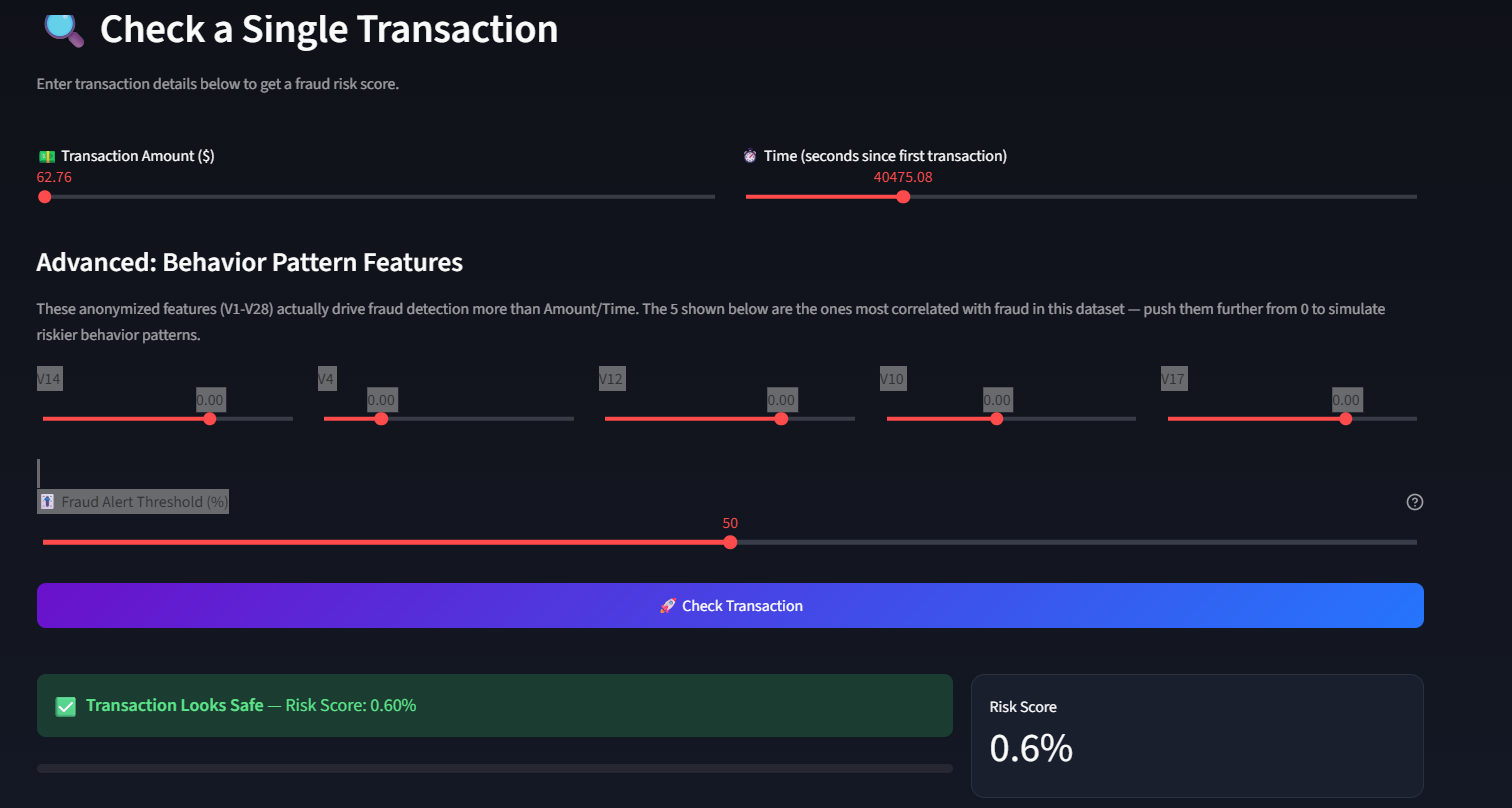
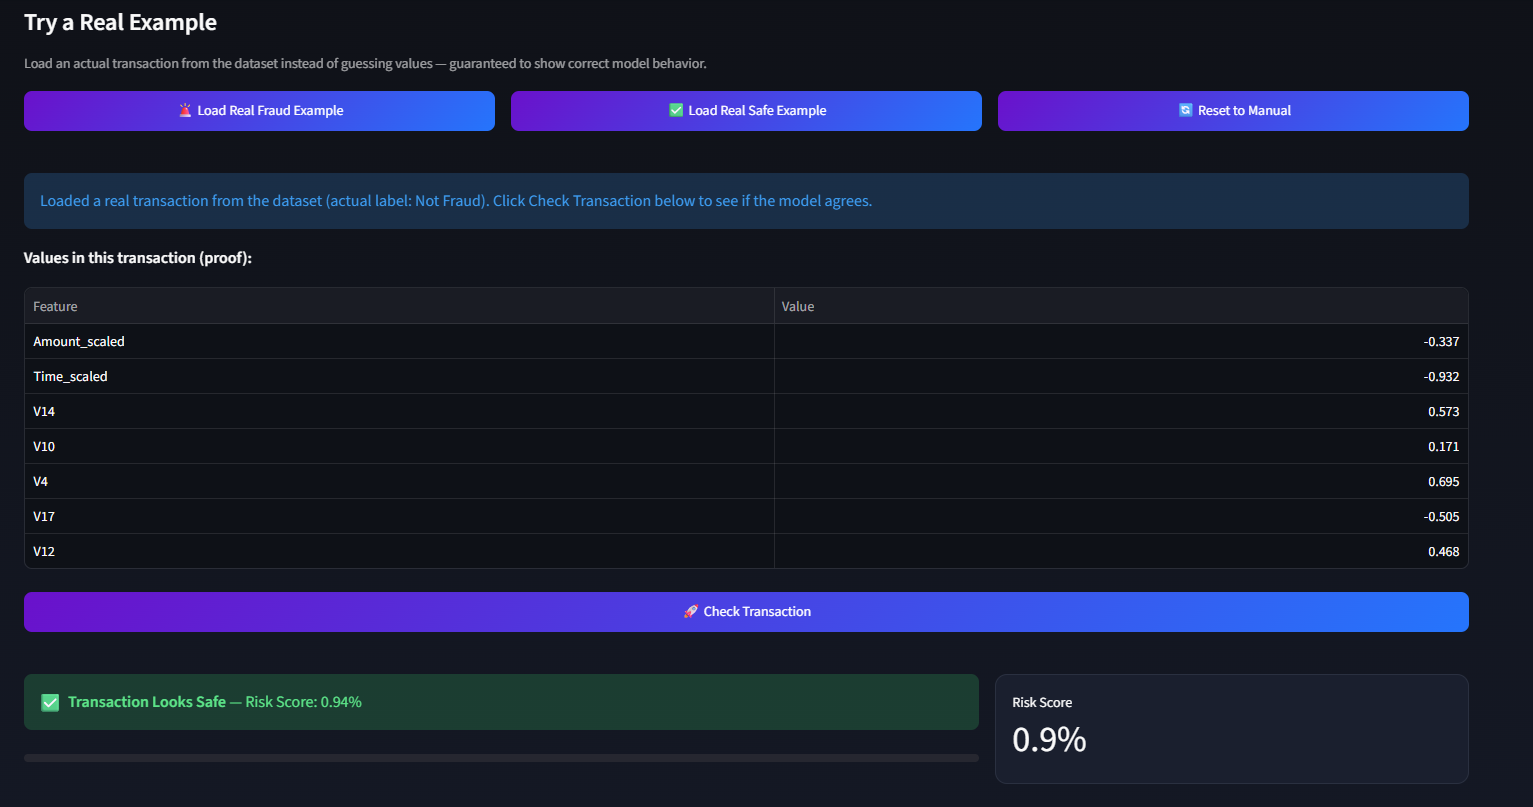
updated

diff --git a/app.py b/app.py
@@ -135,7 +135,6 @@ elif page=="🔍 Single Prediction":
     st.markdown("<br>",unsafe_allow_html=True)
  
     st.markdown("#### Try a Real Example")
-    st.caption("Load an actual transaction from the dataset instead of guessing values — guaranteed to show correct model behavior.")
     b1,b2,b3=st.columns(3)
     with b1:
         if st.button('🚨 Load Real Fraud Example',use_container_width=True):
@@ -300,31 +299,58 @@ elif page=="📊 Model Performance":
  
 elif page=="👤 About Me":
     st.markdown("## 👤 About Me")
-    st.markdown("<br>",unsafe_allow_html=True)
- 
-    col1,col2=st.columns([1,3])
+    st.markdown("<br>", unsafe_allow_html=True)
+    st.markdown("""
+    <style>
+        .profile-pic-container img {
+            border-radius: 50% !important;
+            object-fit: cover !important;
+            aspect-ratio: 1 / 1 !important;
+            border: 3px solid #2575fc;
+            width: 160px !important;
+            height: 160px !important;
+        }
+        
+        div[data-testid="column"] {
+            padding: 0px !important;
+        }
+        .profile-card {
+            background-color: #1a1f2e;
+            border: 1px solid #2a3040;
+            border-radius: 12px;
+            padding: 1.5rem;
+            margin-left: -20px; /* Pulls the card directly closer to the picture */
+        }
+    </style>
+    """, unsafe_allow_html=True)
+    col1, col2 = st.columns([1, 5])
     with col1:
+        st.markdown('<div class="profile-pic-container">', unsafe_allow_html=True)
         try:
-            st.image("images/profile.jpg",width=200)
+            st.image("images/profile.jpg")
         except Exception:
-            st.warning("Add a photo named 'profile.jpg' to your project folder to show it here.")
+            st.warning("Add profile.jpg")
+        st.markdown('</div>', unsafe_allow_html=True)
+
     with col2:
         st.markdown("""
-        <div class="card">
-            <h3>Musfirah Kashan</h3>
-            <p>Aspiring Data Scientist</p>
-            <p>As an aspiring data scientist, I am currently developing a professional portfolio of end-to-end projects—ranging from exploratory data analysis to production-ready machine learning pipelines and fully deployed applications.</p>
+        <div class="profile-card">
+            <h3 style="margin-top:0;">Musfirah Kashan</h3>
+            <p style="color:#2575fc; font-weight:600;">Aspiring Data Scientist</p>
+            <p style="margin-bottom:0;">As an aspiring data scientist, I am currently developing a professional portfolio of end-to-end projects—ranging from exploratory data analysis to production-ready machine learning pipelines and fully deployed applications.</p>
         </div>
-        """,unsafe_allow_html=True)
+        """, unsafe_allow_html=True)
  
-    c1,c2=st.columns(2)
+    st.markdown("<br>", unsafe_allow_html=True)
+
+    c1, c2 = st.columns(2)
     with c1:
         st.markdown("""
         <div class="card">
             <h4>🛠 Skills</h4>
             <p>Python, Pandas, NumPy, Scikit-learn, Streamlit, Matplotlib, Seaborn, Data Analysis, Data Visualization, Machine Learning</p>
         </div>
-        """,unsafe_allow_html=True)
+        """, unsafe_allow_html=True)
     with c2:
         st.markdown("""
         <div class="card">
@@ -336,7 +362,7 @@ elif page=="👤 About Me":
             🛡 Credit Card Fraud Detection (Classification) — this project
             </p>
         </div>
-        """,unsafe_allow_html=True)
+        """, unsafe_allow_html=True)
  
     st.markdown("""
     <div class="card">
@@ -345,4 +371,4 @@ elif page=="👤 About Me":
         LinkedIn: <a href="https://www.linkedin.com/in/musfirah-kashan-487aa626a/" style="color:#2575fc;">https://www.linkedin.com/in/musfirah-kashan-487aa626a/</a><br>
         Email: musfirah22feb@gmail.com</p>
     </div>
-    """,unsafe_allow_html=True)
+    """, unsafe_allow_html=True)
